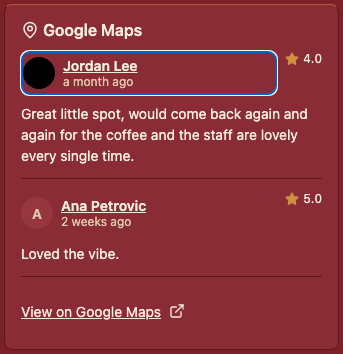
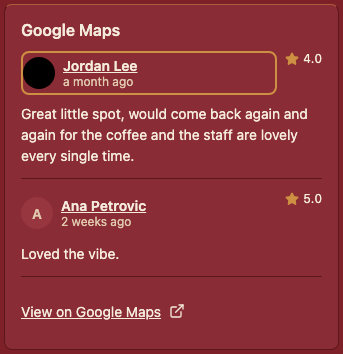
fix(app): address T5 review — real brand-mark honesty, header a11y, press dip
Three review findings on PR #108:

1. Brand-mark/docs mismatch: DESIGN_STANDARDS.md documented a bundled
   official white Google Maps logo asset the component never shipped
   (a lucide MapPin + text lockup instead, which itself read as an
   invented pseudo-lockup). No real asset was reasonably sourceable for
   this pass, so narrowed the recipe to describe the shipped plain-text
   lockup honestly and dropped the generic pin icon.
2. The detail header's mandatory "Reviews from Google Maps" section name
   wasn't reaching the a11y tree (View missing `accessible`). Fixed, with
   a test asserting the header role/name.
3. Link press/focus feedback was unimplemented despite an engineering-notes
   claim otherwise; verified via computed-style + fresh screenshot that the
   focus outline is genuinely visible (prior screenshot predated the
   outline-suppression fix), and added the missing `pressedDip` opacity
   state (Pressable `({pressed}) => [...]`, mirrors HeroCarousel.tsx).

Also tightened two Minor test findings: Linking.openURL assertions now
check the exact URL argument (profile link + maps link), and the
no-pad-to-N hairline test now asserts the actual border style instead of
just author-name presence.

Re-captured all T5 screenshots (brand mark changed for all of them).

Changed region(s): [[0.0583, 0.0621, 0.8163, 0.2797]]

diff --git a/app/src/components/GoogleAttributionPlate.tsx b/app/src/components/GoogleAttributionPlate.tsx
@@ -1,5 +1,5 @@
 import { Image } from 'expo-image';
-import { ExternalLink, MapPin, Star } from 'lucide-react-native';
+import { ExternalLink, Star } from 'lucide-react-native';
 import { useState } from 'react';
 import { Linking, Pressable, StyleSheet, Text, View } from 'react-native';
 import { useFocusable } from '../hooks/useFocusable';
@@ -62,7 +62,7 @@ export function GoogleAttributionPlate({ variant, reviews = [], googleMapsUri }:
 
   return (
     <View testID="google-attribution-plate-detail" style={styles.card}>
-      <View accessibilityRole="header" accessibilityLabel="Reviews from Google Maps">
+      <View accessible accessibilityRole="header" accessibilityLabel="Reviews from Google Maps">
         <GoogleMapsMark height={18} />
       </View>
       {reviews.map((review, index) => (
@@ -80,21 +80,18 @@ export function GoogleAttributionPlate({ variant, reviews = [], googleMapsUri }:
 }
 
 // Google Maps branding is mandatory here — the literal words "Google Maps"
-// (never a bare "Google"), decorative pin icon. A hand-drawn approximation of
-// Google's actual pin/wordmark logotype risks being an inaccurate,
-// unofficial redraw of their trademark (worse than not having it); Google's
-// own attribution policy sanctions plain text as an alternative to the
-// logo, so this renders the words rather than fabricate a knockoff asset.
-// ponytail: text+icon mark, not the bundled official SVG TripadvisorLogo.tsx
-// uses — swap in the real brand asset if/when one is sourced.
+// (never a bare "Google"), never hidden/obscured/restyled away. Plain text,
+// no icon: a generic (non-Google) pin glyph next to the words would read as
+// an invented pseudo-lockup — exactly the "unofficial redraw" risk Google's
+// attribution policy exists to avoid. Words alone are a policy-sanctioned
+// alternative to a bundled logo asset (product-tasks.md's acceptance
+// criteria: "logo or the literal words 'Google Maps'").
+// ponytail: no bundled SVG asset (unlike TripadvisorLogo.tsx) — sourcing an
+// accurate copy of Google's actual brand mark is out of scope here; swap in
+// the real bundled asset if/when one is sourced, per DESIGN_STANDARDS.md.
 function GoogleMapsMark({ height }: { height: number }) {
   return (
-    <View
-      style={styles.markRow}
-      accessibilityElementsHidden
-      importantForAccessibility="no-hide-descendants"
-    >
-      <MapPin size={height} color={colors.text} strokeWidth={2} />
+    <View accessibilityElementsHidden importantForAccessibility="no-hide-descendants">
       <Text style={[styles.markText, { fontSize: height === 16 ? fontSize.sm : fontSize.md }]}>Google Maps</Text>
     </View>
   );
@@ -105,7 +102,7 @@ function ReviewRow({ review, hairline }: { review: GoogleReview; hairline: boole
   const { authorAttribution, rating, text, date } = review;
 
   return (
-    <View style={[styles.reviewRow, hairline && styles.hairlineAbove]}>
+    <View testID="google-review-row" style={[styles.reviewRow, hairline && styles.hairlineAbove]}>
       <View style={styles.authorRow}>
         <Pressable
           onPress={() => {
@@ -118,7 +115,11 @@ function ReviewRow({ review, hairline }: { review: GoogleReview; hairline: boole
           onBlur={focus.onBlur}
           accessibilityRole="link"
           accessibilityLabel={`Review by ${authorAttribution.displayName} on Google Maps`}
-          style={[styles.profileLink, focus.focused && styles.profileLinkFocused]}
+          style={({ pressed }) => [
+            styles.profileLink,
+            pressed && styles.pressedDip,
+            focus.focused && styles.profileLinkFocused,
+          ]}
         >
           <ReviewAvatar photoUri={authorAttribution.photoUri} displayName={authorAttribution.displayName} />
           <View style={styles.nameColumn}>
@@ -180,7 +181,11 @@ function MapsLink({ googleMapsUri }: { googleMapsUri: string }) {
       onBlur={focus.onBlur}
       accessibilityRole="link"
       accessibilityLabel="View on Google Maps"
-      style={[styles.mapsLinkRow, focus.focused && styles.mapsLinkFocused]}
+      style={({ pressed }) => [
+        styles.mapsLinkRow,
+        pressed && styles.pressedDip,
+        focus.focused && styles.mapsLinkFocused,
+      ]}
     >
       <Text style={styles.mapsLinkText}>View on Google Maps</Text>
       <ExternalLink size={16} color={colors.text} strokeWidth={2} />
@@ -198,11 +203,6 @@ const styles = StyleSheet.create({
     borderRadius: radius.default,
     padding: space[4],
     gap: space[3],
-  },
-  markRow: {
-    flexDirection: 'row',
-    alignItems: 'center',
-    gap: space[1],
   },
   mark16Row: {
     flexDirection: 'row',
@@ -240,6 +240,13 @@ const styles = StyleSheet.create({
   profileLinkFocused: {
     borderWidth: 2,
     borderColor: colors.primary,
+  },
+  // design-spec.md's link press state: brief opacity dip. A plain style
+  // value (not an Animated timing) — matches HeroCarousel.tsx's pressedDip,
+  // which is instant either way and so already satisfies the
+  // prefers-reduced-motion "instant" fallback without a separate branch.
+  pressedDip: {
+    opacity: 0.7,
   },
   avatarBox: {
     width: 32,

diff --git a/app/src/components/GoogleAttributionPlate.test.tsx b/app/src/components/GoogleAttributionPlate.test.tsx
@@ -47,11 +47,23 @@ describe('GoogleAttributionPlate', () => {
     expect(screen.queryByTestId('google-attribution-plate-detail')).toBeNull();
   });
 
-  it('detail variant: the review author name is a profile link to authorAttribution.uri', () => {
+  it('detail variant: the header carries the mandatory "Reviews from Google Maps" section name in the a11y tree', () => {
+    render(<GoogleAttributionPlate variant="detail" reviews={[review]} />);
+    expect(screen.getByRole('header', { name: 'Reviews from Google Maps' })).toBeTruthy();
+  });
+
+  it('detail variant: pressing the review author link opens authorAttribution.uri', () => {
     render(<GoogleAttributionPlate variant="detail" reviews={[review]} />);
     const link = screen.getByRole('link', { name: 'Review by Jordan Lee on Google Maps' });
     fireEvent.press(link);
-    expect(link).toBeTruthy();
+    expect(Linking.openURL).toHaveBeenCalledWith(review.authorAttribution.uri);
+  });
+
+  it('pressing the maps link opens googleMapsUri', () => {
+    render(<GoogleAttributionPlate variant="detail" reviews={[]} googleMapsUri="https://maps.example/place" />);
+    const link = screen.getByRole('link', { name: 'View on Google Maps' });
+    fireEvent.press(link);
+    expect(Linking.openURL).toHaveBeenCalledWith('https://maps.example/place');
   });
 
   it('detail variant: partial data — reviews without a maps link omits the footer link', () => {
@@ -93,14 +105,16 @@ describe('GoogleAttributionPlate', () => {
     expect(screen.queryByTestId('google-review-avatar')).toBeNull();
   });
 
-  it('renders each supplied review with no hairline before the first row (no pad-to-N)', () => {
+  it('renders each supplied review with a hairline above every row but the first (no pad-to-N)', () => {
     const second: GoogleReview = {
       ...review,
       authorAttribution: { ...review.authorAttribution, displayName: 'Ana Petrovic', uri: 'https://google.example/profile/ana' },
       text: 'Cozy and quiet.',
     };
     render(<GoogleAttributionPlate variant="detail" reviews={[review, second]} />);
-    expect(screen.getByText('Jordan Lee')).toBeTruthy();
-    expect(screen.getByText('Ana Petrovic')).toBeTruthy();
+    const rows = screen.getAllByTestId('google-review-row');
+    expect(rows).toHaveLength(2);
+    expect(rows[0]).not.toHaveStyle({ borderTopWidth: 1 });
+    expect(rows[1]).toHaveStyle({ borderTopWidth: 1 });
   });
 });

diff --git a/DESIGN_STANDARDS.md b/DESIGN_STANDARDS.md
@@ -839,21 +839,21 @@ one carries Google's **reviews + Maps lockup + maps link**.
 
 **Not a white plate.** Unlike Tripadvisor's rating-bubble image (a fixed
 green-on-light asset that forces the white `--attribution-plate`), Google's
-content here is **text + user avatars**, and Google publishes an official
-**light/white monochrome "Google Maps" brand asset for dark UIs**. So this plate
-renders on the app's own **`--surface`** (dark), native to the theme — the
-white-plate exception does **not** apply. All plate text is `--text` /
-`--text-muted` on `--surface` (both pre-computed AA below); the brand mark is the
-white variant.
+content here is **text + user avatars**. So this plate renders on the app's
+own **`--surface`** (dark), native to the theme — the white-plate exception
+does **not** apply. All plate text, including the brand mark, is `--text` /
+`--text-muted` on `--surface` (both pre-computed AA below).
 
-- **Brand mark:** Google's official **white/light "Google Maps" logo asset**
-  (bundled, inlined like `TripadvisorLogo` — a brand-kit asset, never a token,
-  never redrawn/recolored/retinted; the white variant is Google's *own* dark-UI
-  asset, so using it is compliant, not a recolor). Rendered ≥16px tall for
-  legibility (detail 18px, footer 16px). White on `--surface` (#8A2C35) ≈6.1:1
-  and on `--bg` (#7D2027) ≈5.9:1 — both clear the 3:1 UI-element bar with margin.
-  Decorative in the a11y tree; the section/link accessible names carry
-  "Google Maps".
+- **Brand mark:** the literal words **"Google Maps"** (`--text`, weight 600,
+  never a bare "Google") — no icon or glyph beside it. Rendered ≥16px tall for
+  legibility (detail 18px, footer 16px). A bundled official Google Maps
+  logo/lockup asset (mirroring how `TripadvisorLogo` bundles Tripadvisor's own
+  brand-kit SVG) is the eventual upgrade **if and when one is sourced and
+  verified accurate** — until then, plain text is Google's own
+  policy-sanctioned alternative to a logo (never a hand-drawn approximation of
+  their mark: an unofficial redraw risks reading as an invented, non-Google
+  lockup, which is worse than no logo at all). Decorative in the a11y tree;
+  the section/link accessible names carry "Google Maps".
 - **Photo author credit is *not* re-implemented here** — a live Places photo's
   per-author credit is already the **Photo attribution (Google-sourced imagery)**
   recipe (`PhotoAttributionCaption`), rendered flush below each photo. This plate
@@ -869,7 +869,7 @@ Places content to attribute):
 - **`detail`** — the full block in the detail body, a **`--surface` card**: 1px
   `--border`, gold `--card-highlight` top edge, `--radius` (8px), `--space-4`
   padding, `--space-3` between internal groups.
-  - *Header:* the white "Google Maps" mark (18px), left-aligned. Section
+  - *Header:* the "Google Maps" text mark (18px), left-aligned. Section
     accessible name "Reviews from Google Maps".
   - *Review rows* (up to whatever the merge supplies — Places returns ≤5;
     render each, no pad-to-N), stacked, each separated from the next by a 1px
@@ -902,7 +902,7 @@ Places content to attribute):
     link + a trailing 16px `--text` `ExternalLink` icon (decorative), opening
     `googleMapsUri`. 44×44 target, ≥`--space-2` from the last review.
 - **`footer`** — the compact single-line attribution at the detail screen's
-  footer-CTA spot (on `--bg`): the white "Google Maps" mark (16px) + an
+  footer-CTA spot (on `--bg`): the "Google Maps" text mark (16px) + an
   underlined **`--text` "View on Google Maps"** link (8.5:1 on `--bg`) opening
   `googleMapsUri`, `--space-2` gap, 44×44 target. No reviews, no card surface.
 
@@ -941,14 +941,13 @@ Composes from `--surface`, `--border`, `--card-highlight`, `--text`,
 `--text-muted`, `--surface-hover`, `--primary`, `--radius`, `--font-size-xs`/
 `--font-size-sm`, `--space-2`/`--space-3`/`--space-4`, the platform `<Image>`,
 and reuses the Photo attribution recipe for photo credits. Pre-computed pairings:
-`--text` on `--surface` 7.1:1 ✓ / on `--bg` 8.5:1 ✓ · `--text-muted` on
-`--surface` 5.3:1 ✓ / on `--bg` 6.2:1 ✓ · `--primary` focus outline 3.1:1 on
-`--surface` / 3.65:1 on `--bg` (UI, clears 3:1) · white brand mark ≈6.1:1 on
-`--surface` / ≈5.9:1 on `--bg` (UI ✓). **No new token** — the Google Maps mark
-is a bundled brand-kit asset, not a token. ponytail: no `card` variant and no
-white plate — Places live content only lands on the detail screen, and Google
-ships its own dark-UI white mark, so neither the list-card lockup nor the
-white-plate surface has a reason to exist here.
+`--text` on `--surface` 7.1:1 ✓ / on `--bg` 8.5:1 ✓ (covers the "Google Maps"
+text mark, same token as the rest of the plate's text — no separate asset
+contrast to compute) · `--text-muted` on `--surface` 5.3:1 ✓ / on `--bg` 6.2:1
+✓ · `--primary` focus outline 3.1:1 on `--surface` / 3.65:1 on `--bg` (UI,
+clears 3:1). **No new token.** ponytail: no `card` variant and no white plate
+— Places live content only lands on the detail screen, so the list-card
+lockup and the white-plate surface both have no reason to exist here.
 
 ### Fullscreen photo viewer (+ hero photo-count pill)
 
